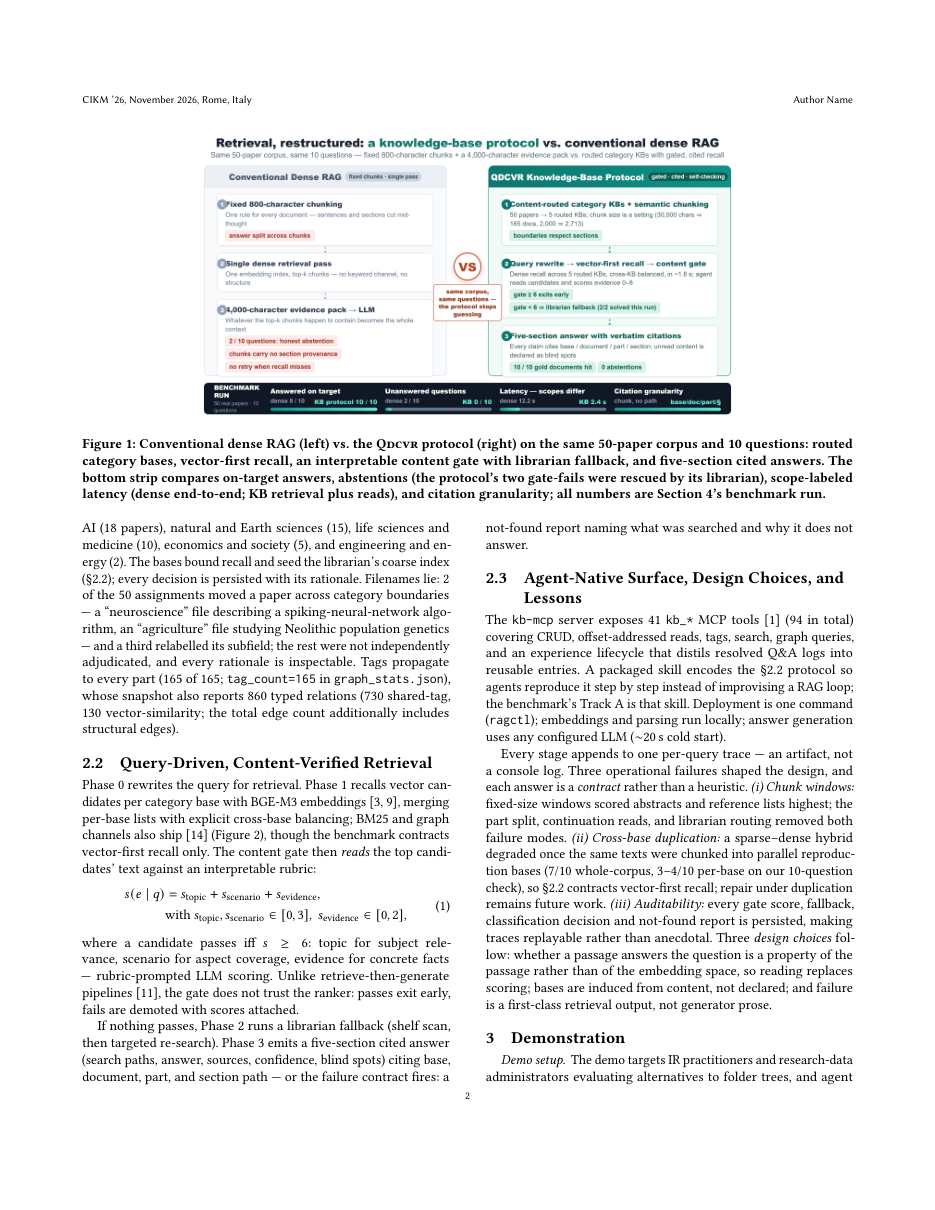
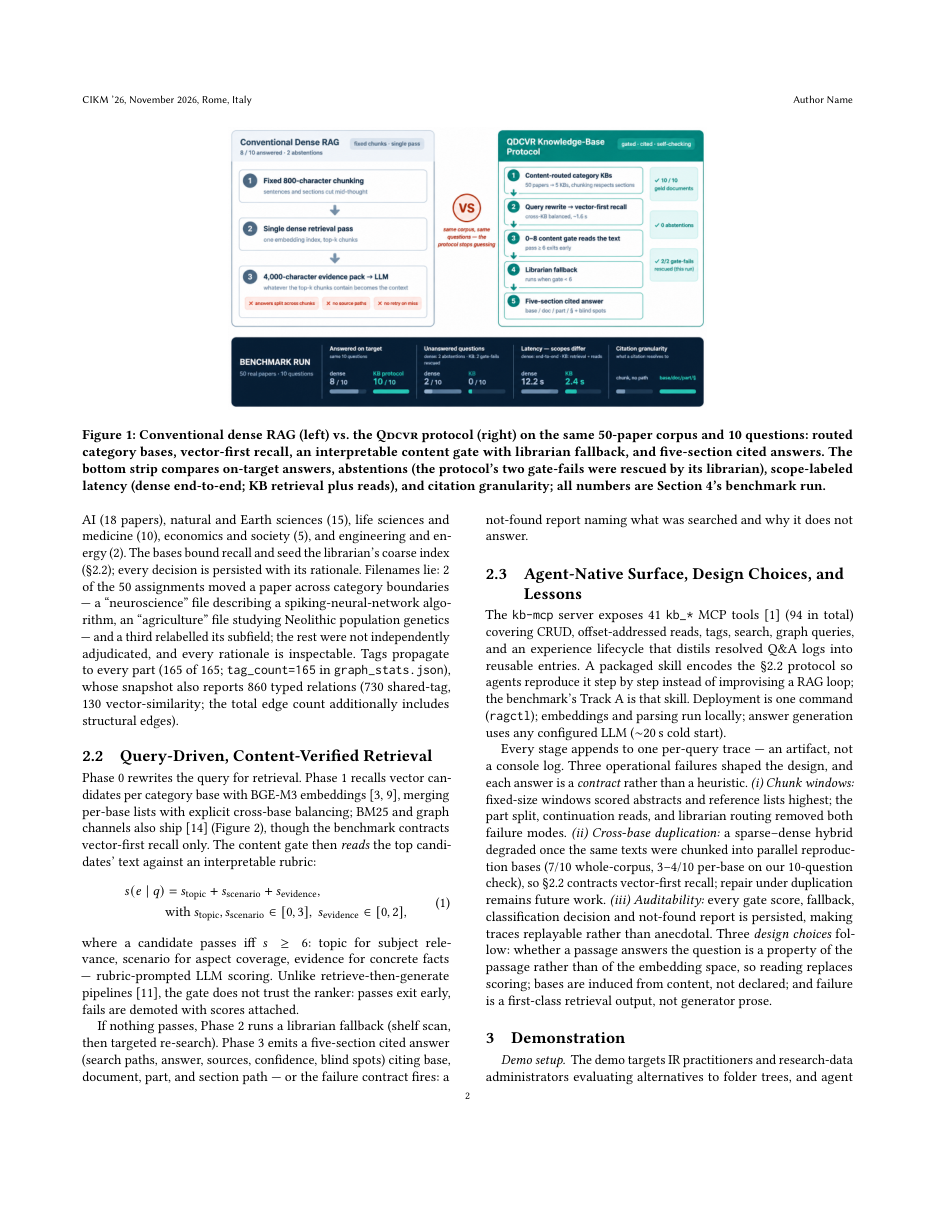
paper_demo: Figure 1 redrawn with gpt-image-2.5 (CIKM comparison style, artifact-exact text); HTML original kept as backup

Changed region(s): [[0.093, 0.0917, 0.9305, 0.8562], [0.4032, 0.7339, 0.4342, 0.7645]]

diff --git a/paper_demo/tex/main.tex b/paper_demo/tex/main.tex
@@ -83,8 +83,7 @@
 % sits right after the section whose typesetting starts on its target page.
 \begin{figure*}[t]
 \centering
-\includegraphics[width=0.72\textwidth]{../figures/fig1_rag_vs_kb.png}
-\caption{Conventional dense RAG (left) vs.\ the \sys{} protocol (right) on the
+\includegraphics[width=0.62\textwidth]{../figures/fig1_rag_vs_kb_gpt.png}\caption{Conventional dense RAG (left) vs.\ the \sys{} protocol (right) on the
 same 50-paper corpus and 10 questions: routed category bases, vector-first
 recall, an interpretable content gate with librarian fallback, and five-section
 cited answers. The bottom strip compares on-target answers, abstentions (the

diff --git a/paper_demo/figures/fig1_prompt_gpt.md b/paper_demo/figures/fig1_prompt_gpt.md
@@ -1,0 +1,80 @@
+# Figure 1 — CIKM Demo paper: dense RAG vs. QDCVR protocol (methodology contrast)
+
+Publication-quality flat 2D vector scientific comparison diagram for an ACM CIKM
+conference paper (information retrieval / RAG systems). Exact layout spec follows;
+ALL text strings must be rendered EXACTLY as written, letter-perfect, in a clean
+sans-serif (Helvetica/Arial-like) font. White background #FFFFFF. Flat design, no
+photographic elements, no 3D, no drop shadows except none, no gradients, crisp
+1.5-2pt strokes. Color code: slate grey #64748B/#CBD5E1 = conventional baseline;
+deep teal #0F766E = the QDCVR proposed system; soft red #B4441F = warnings;
+dark navy #101826 = bottom results strip. Right-side system outlined in teal as
+"the proposed system"; left side visually neutral grey.
+
+## Global layout (landscape 3:2, 1536x1024)
+
+Three horizontal zones: (top, 78% height) two side-by-side process panels with a
+small "VS" roundel between them; (bottom, 22% height) one full-width dark results
+strip. Generous white margins.
+
+## TOP-LEFT PANEL — "Conventional Dense RAG" (grey theme)
+
+Header bar: light grey fill #EEF2F7, title text "Conventional Dense RAG" in dark
+slate, small rounded tag beside it reading "fixed chunks · single pass".
+Below, a vertical 3-step pipeline connected by downward grey arrows:
+- Step 1 card: numbered grey circle "1", bold title "Fixed 800-character chunking",
+  small grey caption "sentences and sections cut mid-thought"
+- Step 2 card: circle "2", bold "Single dense retrieval pass", caption "one
+  embedding index, top-k chunks"
+- Step 3 card: circle "3", bold "4,000-character evidence pack → LLM", caption
+  "whatever the top-k chunks contain becomes the context"
+Under step 3, three small soft-red warning chips, each with a small ✗ mark:
+"answers split across chunks", "no source paths", "no retry on miss".
+A grey metric line inside the header area reads: "8 / 10 answered · 2 abstentions".
+
+## TOP-RIGHT PANEL — "QDCVR Knowledge-Base Protocol" (teal theme, the proposed system)
+
+Header bar: teal gradient fill #0F766E→#0D9488, white title "QDCVR Knowledge-Base
+Protocol", small translucent white tag "gated · cited · self-checking".
+Below, a vertical 5-step pipeline connected by downward teal arrows:
+- Step 1: teal circle "1", bold "Content-routed category KBs", caption
+  "50 papers → 5 KBs, chunking respects sections"
+- Step 2: circle "2", bold "Query rewrite → vector-first recall", caption
+  "cross-KB balanced, ~1.6 s"
+- Step 3: circle "3", bold "0–8 content gate reads the text", caption
+  "pass ≥ 6 exits early"
+- Step 4: circle "4", bold "Librarian fallback", caption "runs when gate < 6"
+- Step 5: circle "5", bold "Five-section cited answer", caption
+  "base / doc / part / § + blind spots"
+Small teal gain chips with ✓ marks beside the pipeline: "10 / 10 gold documents",
+"0 abstentions", "2/2 gate-fails rescued (this run)".
+
+## CENTER — between the two panels
+
+A small white circle with thick red-brown #B4441F border containing the bold text
+"VS", and beneath it a two-line caption "same corpus, same questions — the
+protocol stops guessing" in dark red-brown, italic.
+
+## BOTTOM FULL-WIDTH STRIP — dark navy #101826 rounded rectangle, white text
+
+Left cap label in bold white: "BENCHMARK RUN" with small grey sub-line
+"50 real papers · 10 questions".
+Then four metric groups side by side, each with: bold white metric name on top,
+a grey small scope note, a pair of values (grey for dense, bright teal #5EEAD4
+for KB), and a thin horizontal bar underneath:
+1. "Answered on target" — scope "same 10 questions" — values "dense 8 / 10" vs
+   "KB protocol 10 / 10", grey bar 80% vs teal bar 100%.
+2. "Unanswered questions" — scope "dense: 2 abstentions · KB: 2 gate-fails
+   rescued" — values "dense 2 / 10" vs "KB 0 / 10", grey full bar vs tiny teal bar.
+3. "Latency — scopes differ" — scope "dense: end-to-end · KB: retrieval + reads"
+   — values "dense 12.2 s" vs "KB 2.4 s", grey full bar vs short teal bar.
+4. "Citation granularity" — scope "what a citation resolves to" — values
+   "chunk, no path" vs "base/doc/part/§", short grey bar vs full teal bar.
+
+## Text rendering constraints
+
+Every label spelled EXACTLY as quoted above; numbers rendered as digits ("8 / 10",
+"12.2 s", "2.4 s", "0–8"); use the section symbol § exactly once in
+"base/doc/part/§". No other text, no watermark, no title at the top of the
+figure, no legend box. Keep at least 30% whitespace overall; align all cards to a
+clean grid; all corners slightly rounded (8-14px radius); consistent 2px card
+borders.
